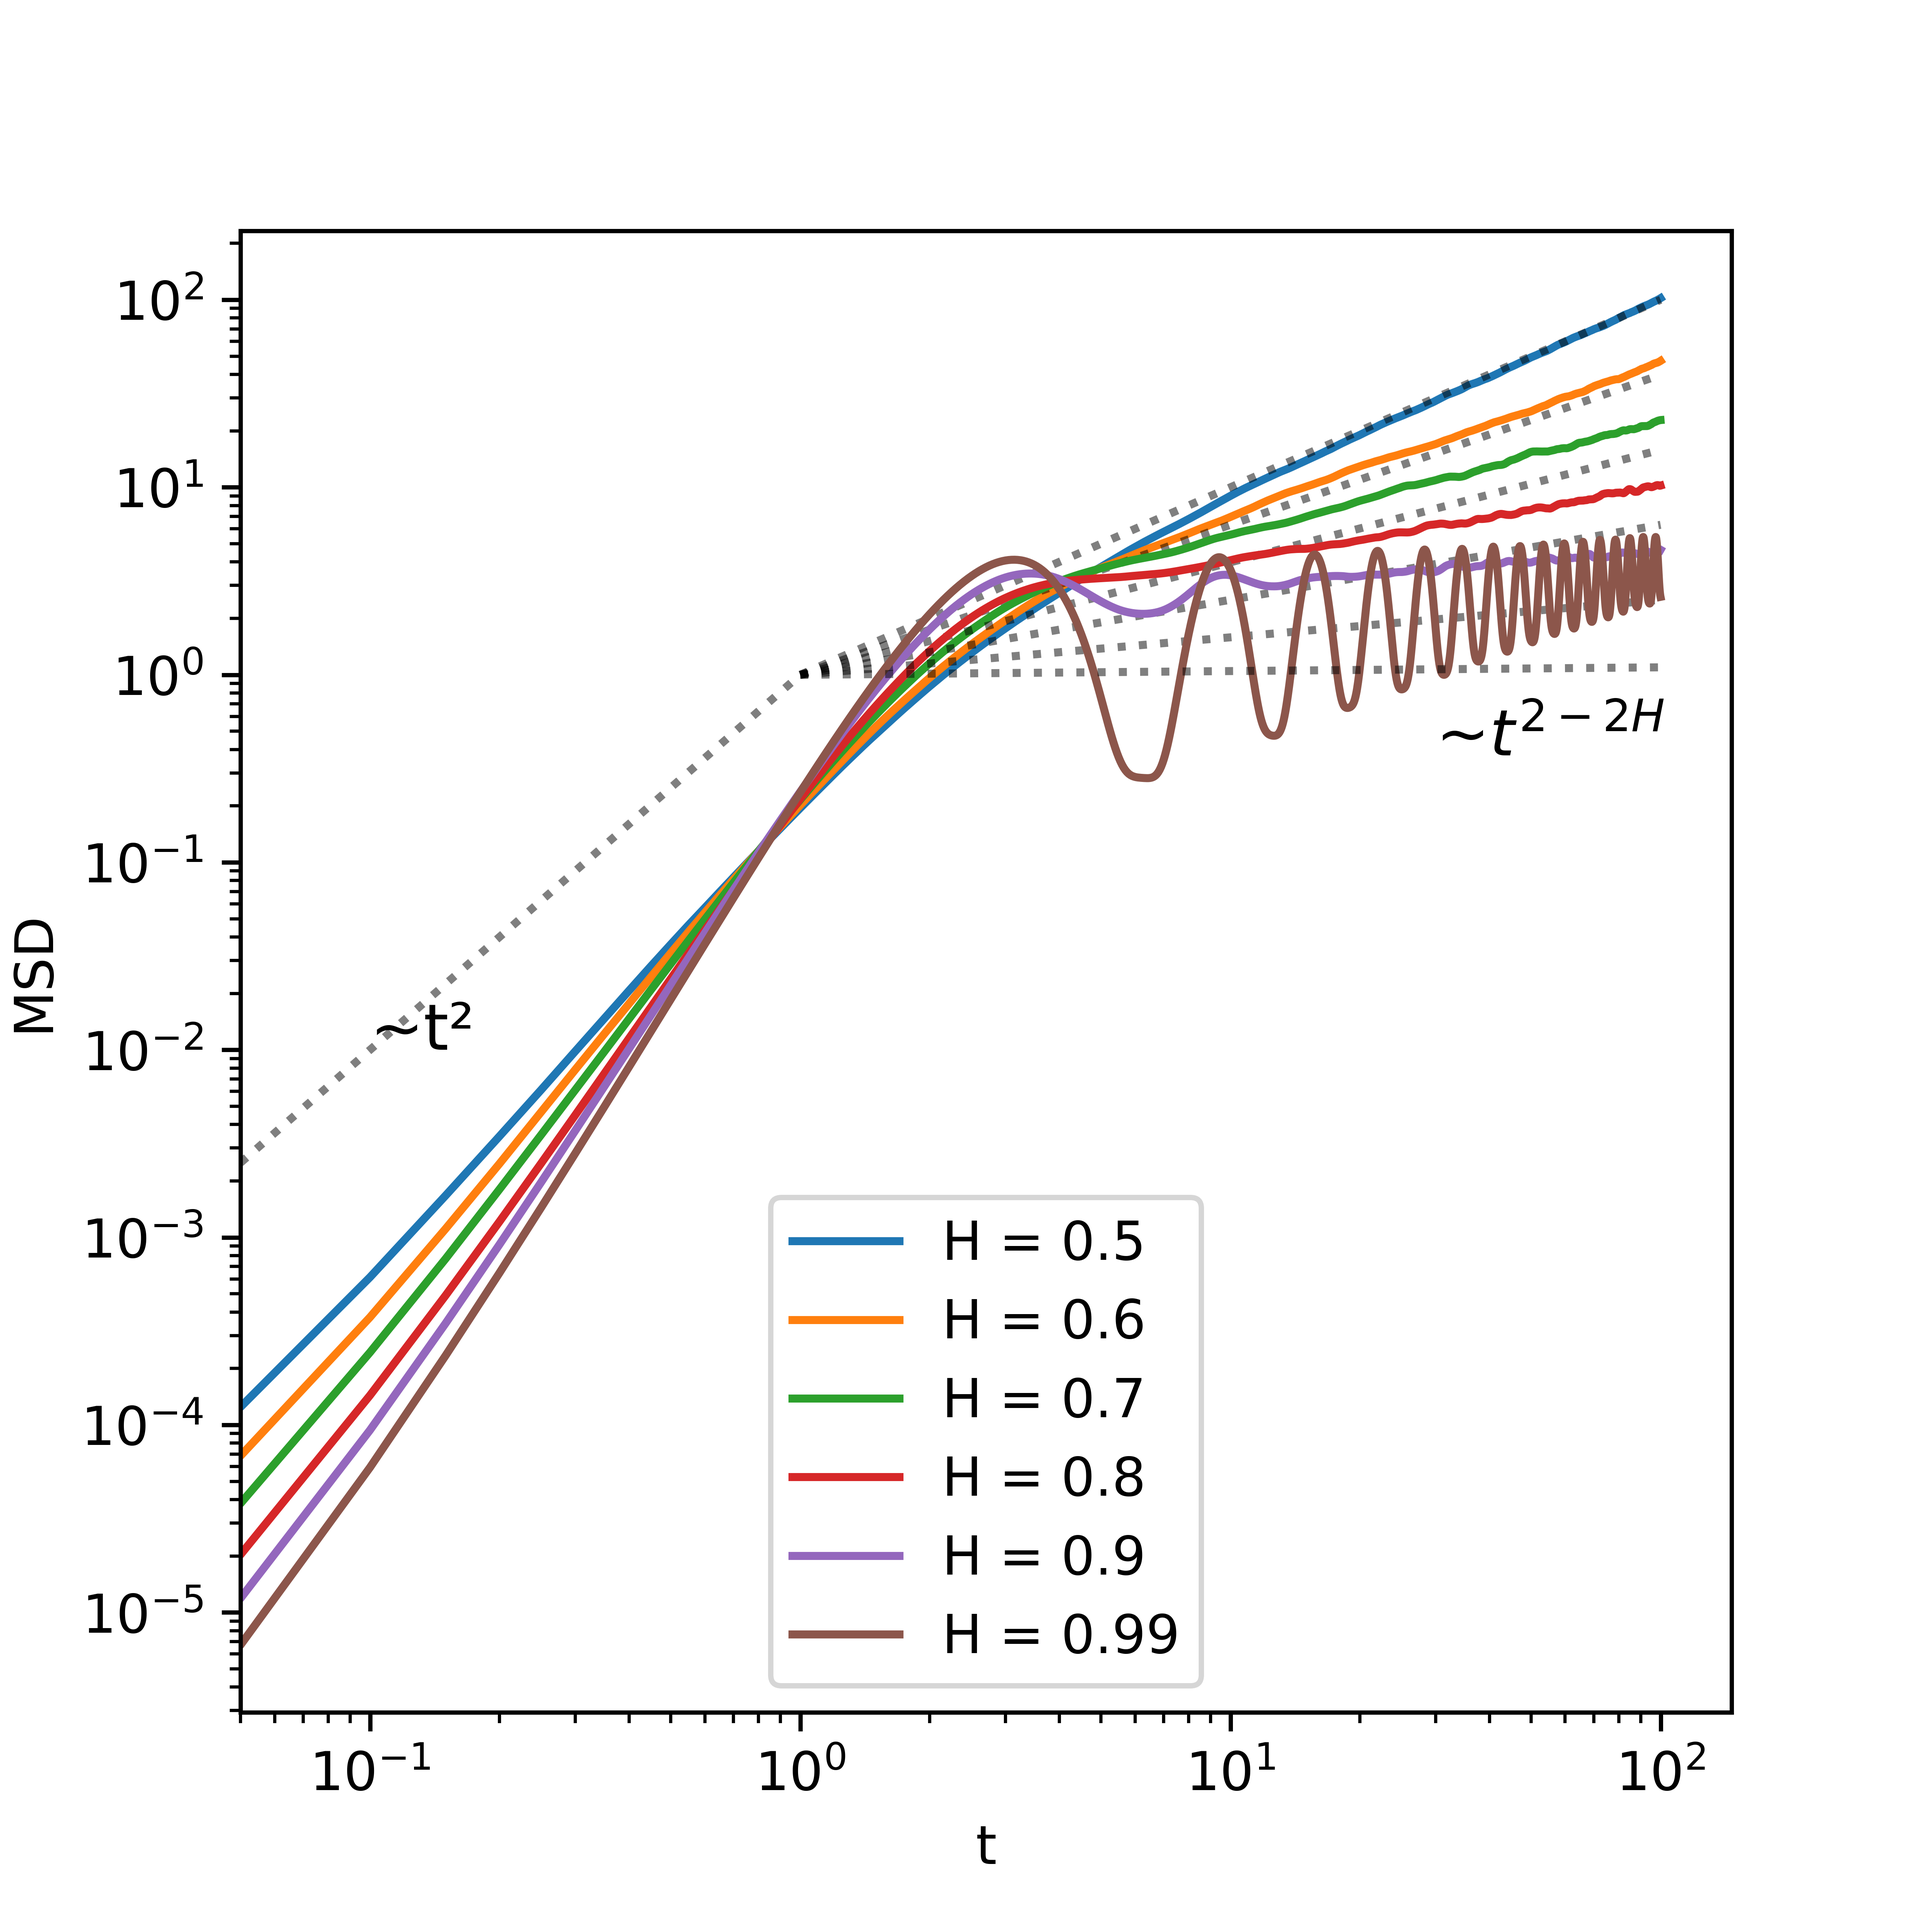
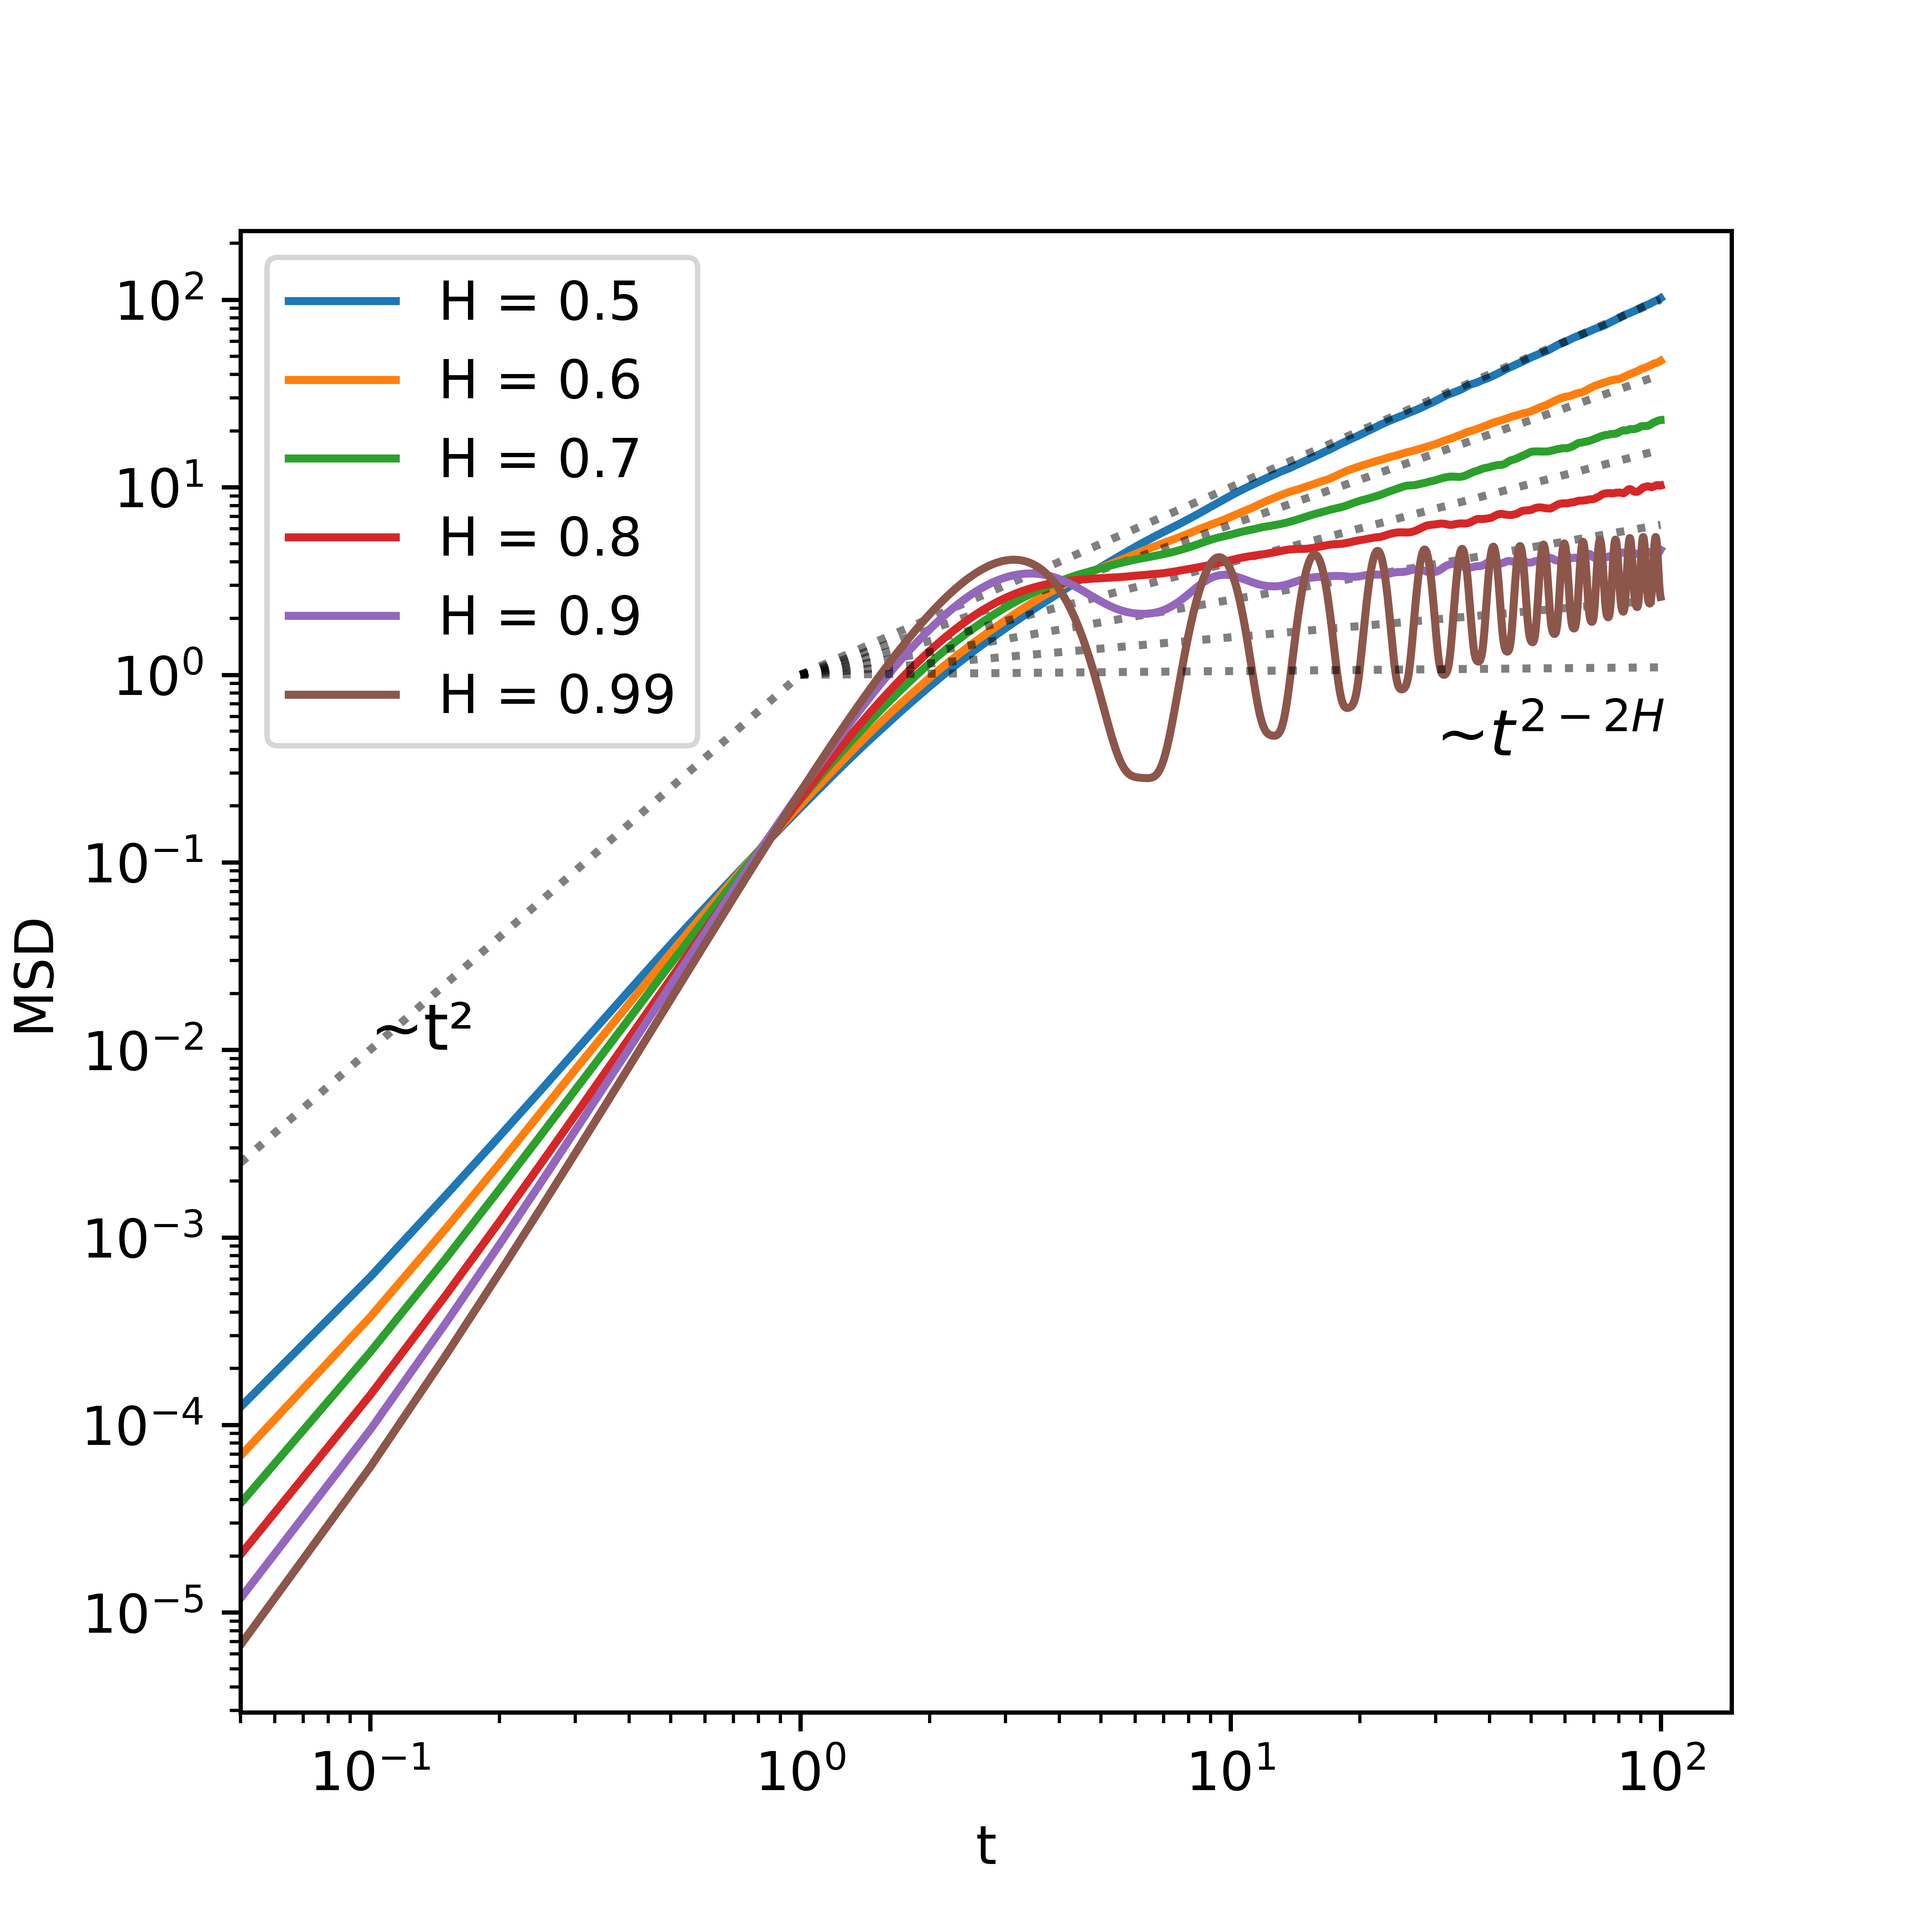
style: legend position upper left

diff --git a/outs/poster_plots.py b/outs/poster_plots.py
@@ -312,7 +312,7 @@ ax.set_xscale("log")
 ax.set_yscale("log")
 ax.set_xlim(xmin = h)
 
-ax.legend(loc = "lower center")
+ax.legend(loc = "upper left")
 
 add_trend(ax, x0 = h, xf = 1, func = t2, text = "~t²", xtext = 0.1)
 fig.savefig("outs/msd-lutz.png", dpi = 1000)
